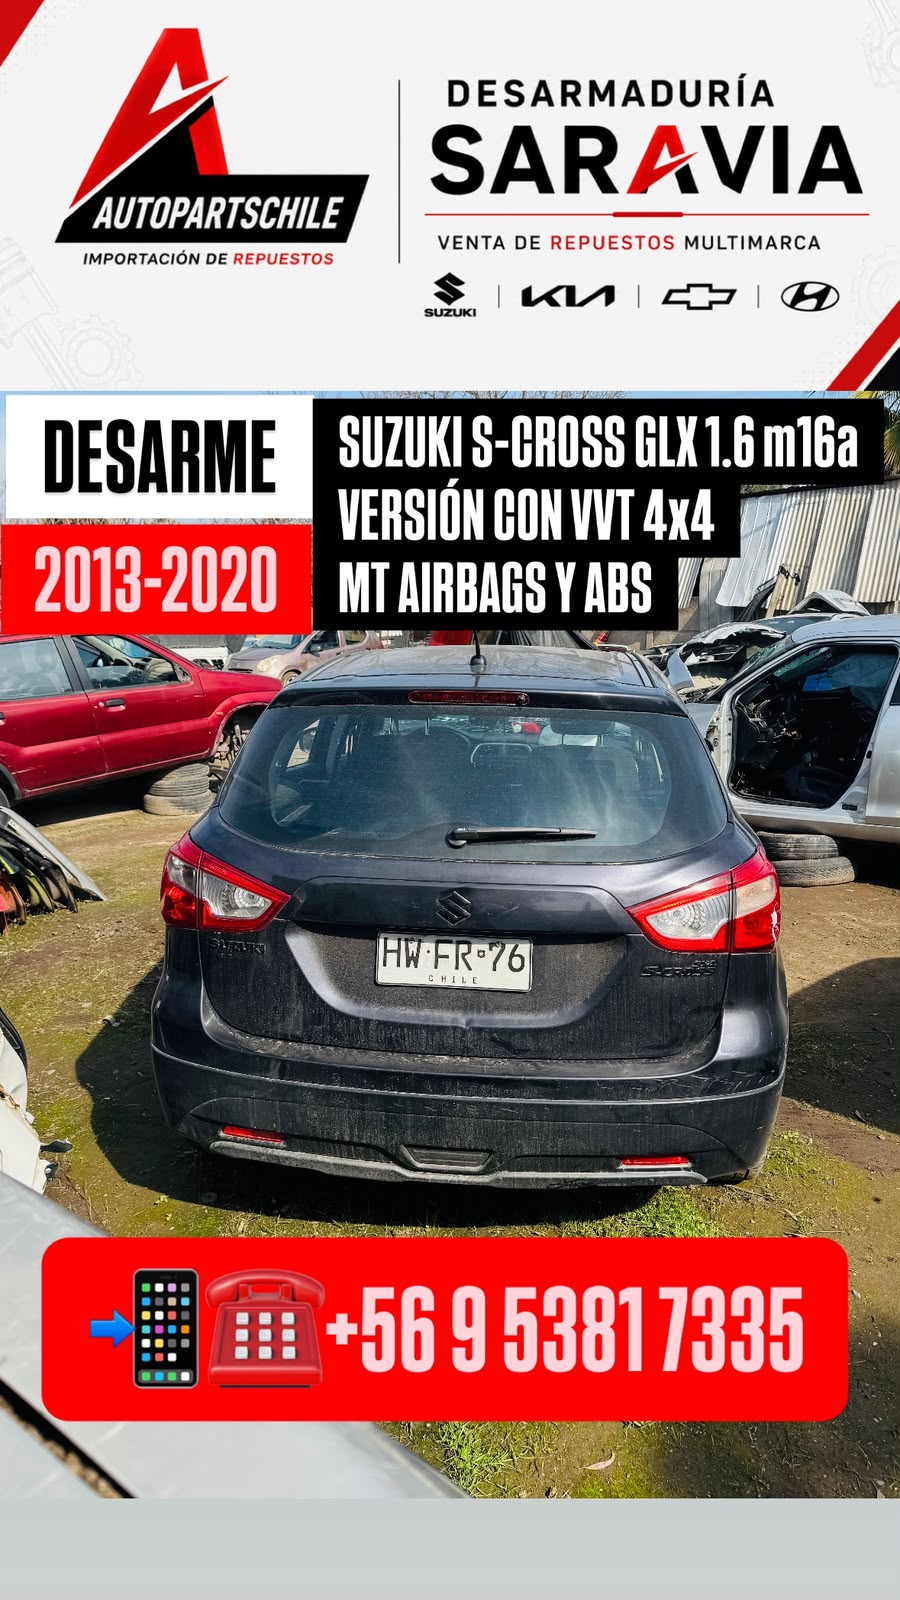
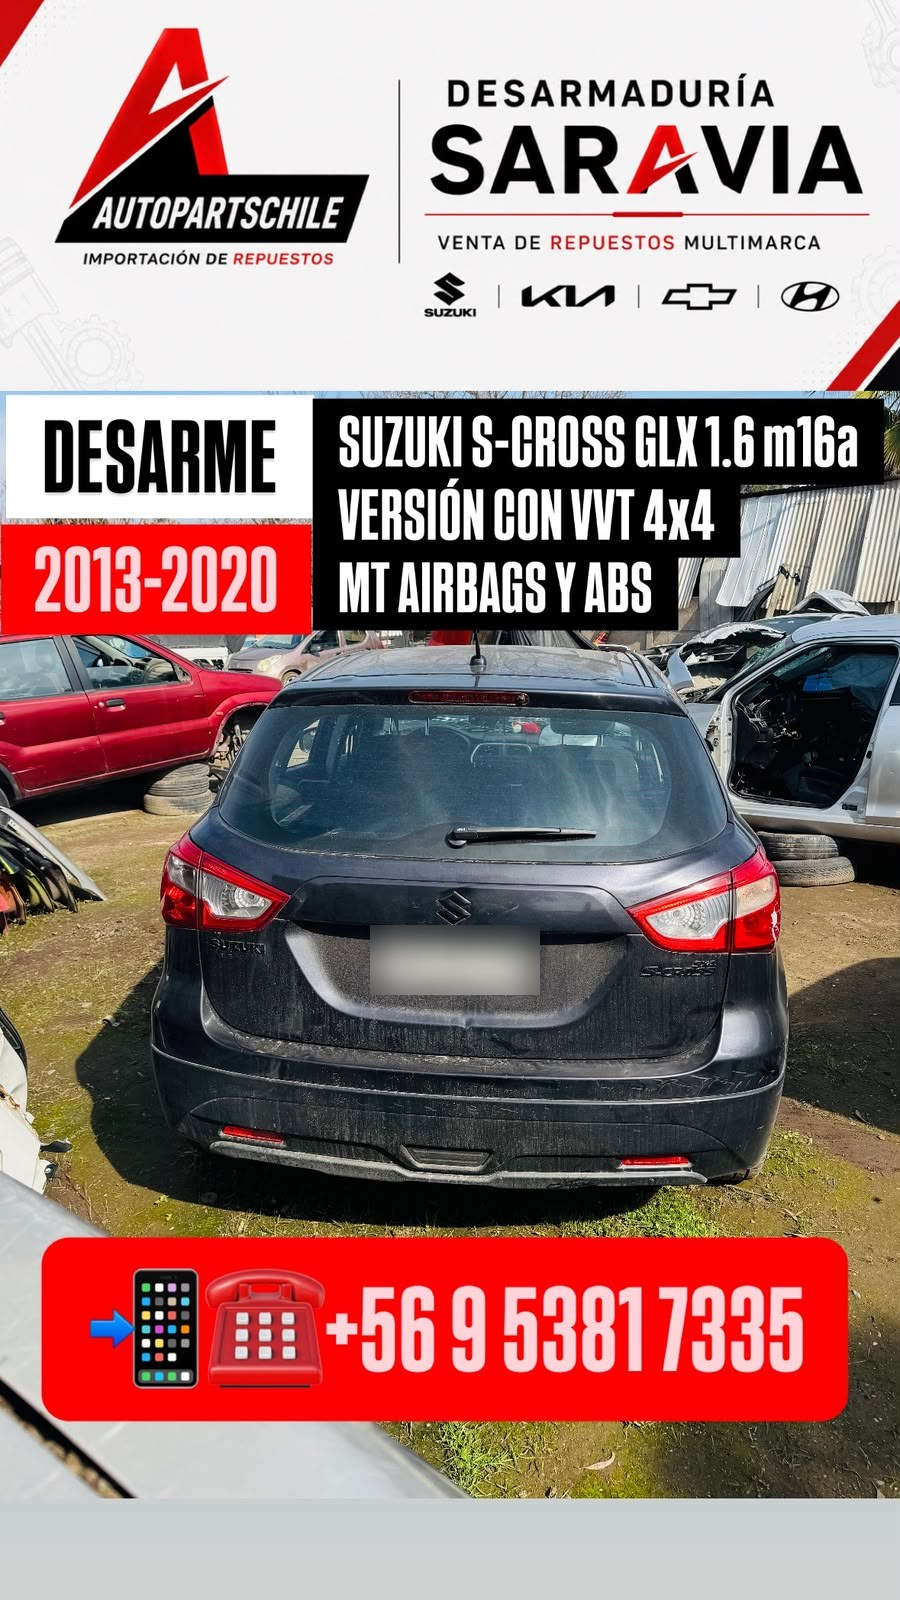
Patente difuminada en foto S-Cross; helper fb-img para Marketplace
Claude-Session: https://claude.ai/code/session_01QAfXCApguLVYpPGjhYSM6S

Changed region(s): [[0.4044, 0.5625, 0.6222, 0.625]]

diff --git a/fb-img.html b/fb-img.html
@@ -1,0 +1,8 @@
+<!doctype html><html><head><meta charset="utf-8"><meta name="robots" content="noindex"><title>img</title></head><body>
+<p id="s">Enviando…</p>
+<script>
+(async()=>{const q=new URLSearchParams(location.search);const list=(q.get('f')||'').split(',').filter(Boolean);
+for(const f of list){const r=await fetch('/img/'+f);const b=await r.blob();
+window.opener&&window.opener.postMessage({apcImg:b,name:f.split('/').pop()},'*');}
+document.getElementById('s').textContent='Listo: '+list.length;setTimeout(()=>window.close(),800);})();
+</script></body></html>
